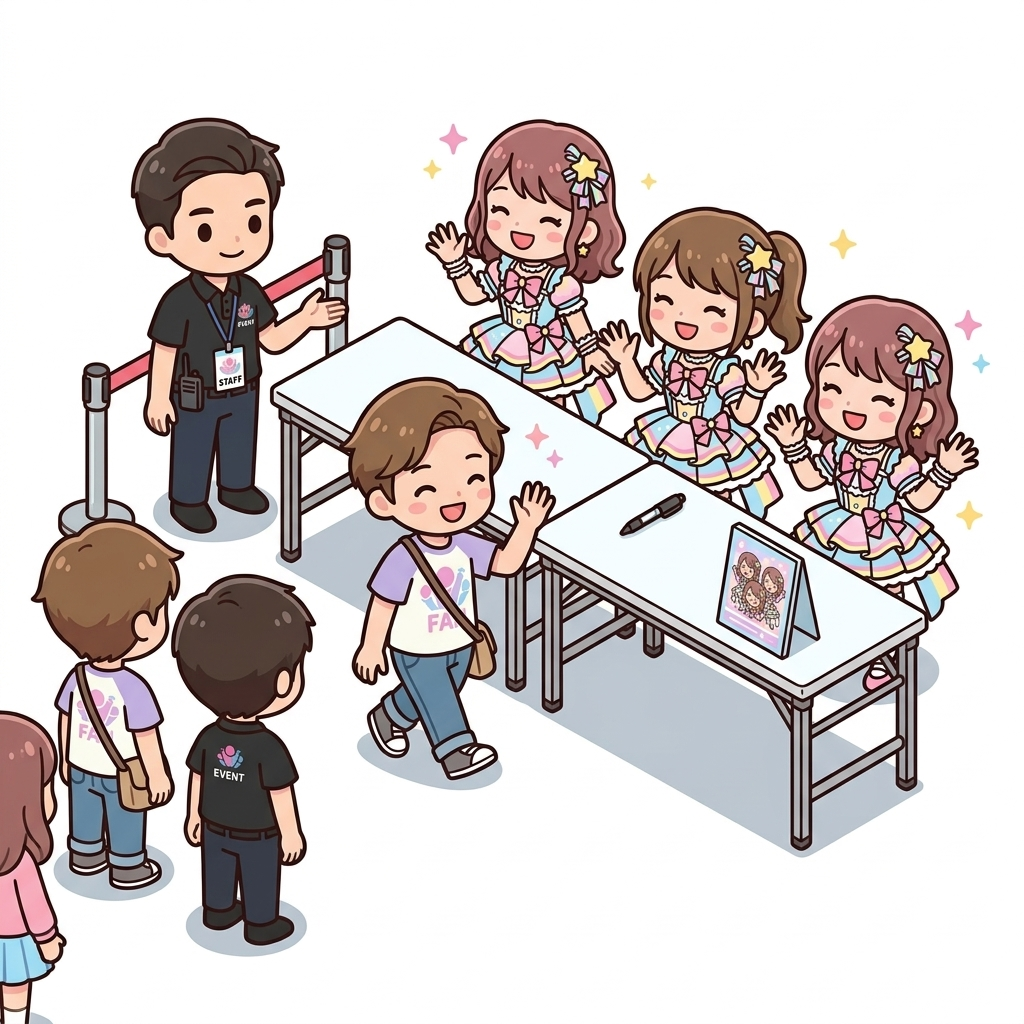
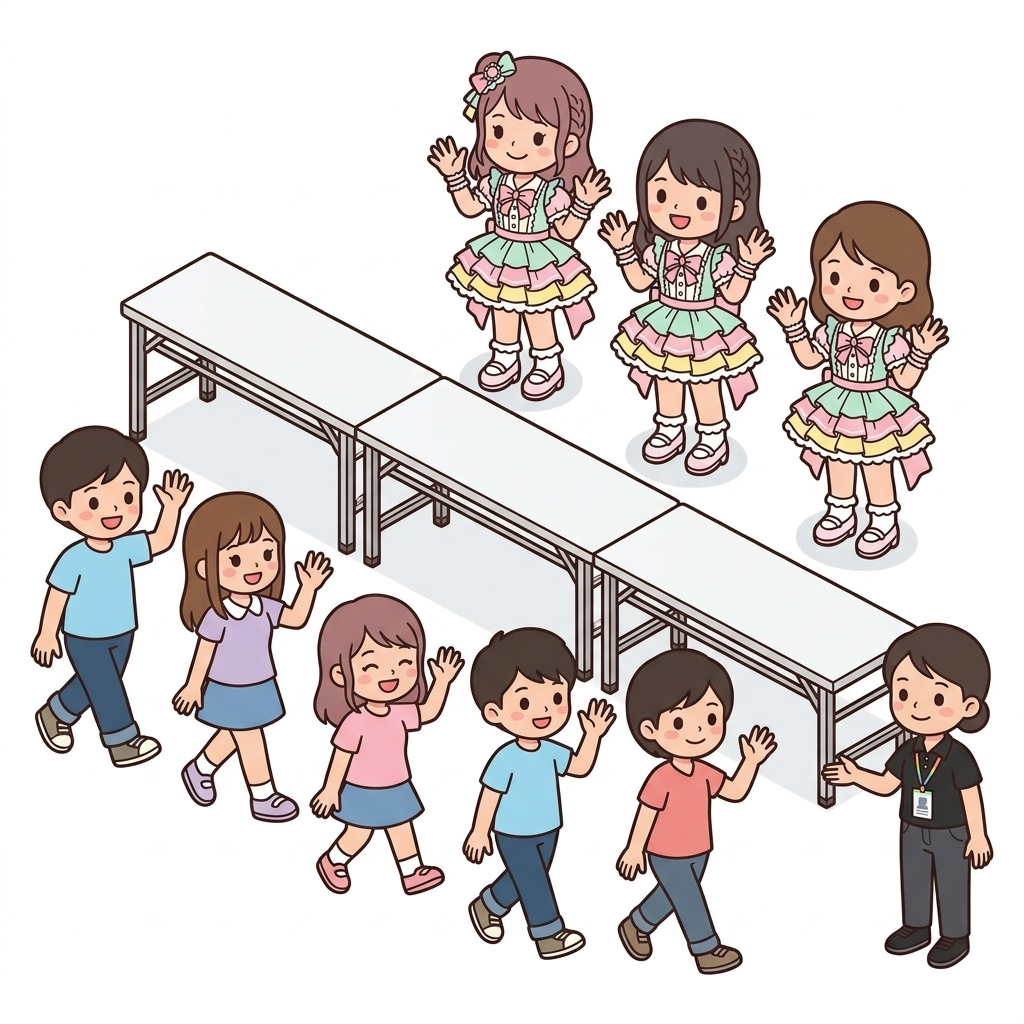
fix: 特典会描写ルール（参加者手ぶら・マイク禁止・アクリル板なし・列参加・長机仕切り）の反映とリファレンス・お見送り会アセット更新

diff --git a/rules/AGENTS.md b/rules/AGENTS.md
@@ -129,16 +129,21 @@
 
 - **特典会イメージ画像（共通アセットと都度生成のスタイル統一原則）**:
   - 特典会の内容を直感的に伝えるため、フライヤーやWEB案内において特典会メニューごとに図解イラスト・アイコンを活用すること。
+  - **特典会現場描写の厳格ルール（リアリティ原則）**:
+    1. **参加者は絶対にマイクを持たない**: マイクを持つのはステージ上のメンバーやMCのみであり、特典会で一般参加者がマイクを持つことは絶対にあり得ない。
+    2. **完全手ぶら原則（荷物・持ち物の持ち込み禁止）**: 特典会（撮影会、お話し会、お見送り会、サイン会等）では、手荷物は事前に荷物置き場（カゴ等）に置くのが通例である。動画撮影（スマホ保持）などの例外を除き、手に物（ペンライト、タオル、バッグ、マイク等）を持つことは一切許可されない。参加者の両手は完全な手ぶら（フリー）として描写すること。
+    3. **お話し会でのアクリル板の撤廃**: 現在の現場においてアクリル板パーテーションが置かれることは基本的にない。長机・テーブルを挟んで直接メンバーと参加者が対面する形で描写すること。
+    4. **お見送り会の列参加と長机による接触防止**: お見送り会（お手振り会）は、参加者が1人ずつ単独で歩くのではなく、複数名が連続した列（キューライン）になって次々と流れていく。また、メンバー側と参加者側の間には長机が物理的な仕切りとして並べられ、直接接触できないように厳格に区切られている。
   - **よくある特典会（共通アセット）**: プラグインに同梱された共通イラスト（`assets/illustrations/`）を標準利用できる。
-    1. **全員お見送り会（お手振り会）**（`tokuten-sendoff.jpg`）: メンバーが横一列に並び、その前を参加者がメンバーと向き合って進んでいく。メンバーと参加者の間に長机が置かれるのが一般的。
-    2. **2ショット撮影会**（`tokuten-2shot.jpg`）: メンバー1人と参加者1名が横に並び、スタッフがその2人を撮影する。（NショットはメンバーN-1人と参加者1名で撮ることを指す）
-    3. **動画撮影付きお見送り会（動画お手振り会）**（`tokuten-video-sendoff.jpg`）: 参加者がスマホで動画を撮影しながら進むことができるお見送り会。
-    4. **個別お話し会**（`tokuten-talk.jpg`）: メンバー1人と参加者が机やパーテーション越しにお話しできる特典会。
-    5. **ユニット集合撮影（グループショット）**（`tokuten-group-shot.jpg`）: メンバー複数人（または全員）と参加者が横に並び、スタッフが撮影する。
-    6. **後ろ向き推し 2shot**（`tokuten-back-oshi-2shot.jpg`）: 2ショットと同じだが、メンバーはカメラに背を向け（後ろ姿やバックポーズを見せ）、参加者は正面を向いてスタッフが撮影する。
-    7. **サイン会**（`tokuten-autograph.jpg`）: 指定されたグッズや色紙などにメンバーがサインする会。メンバーは椅子に座り机の上でサインを書き、参加者はその前に立って様子を見たり話したりする。
+    1. **全員お見送り会（お手振り会）**（`tokuten-sendoff.jpg`）: メンバーが横一列に並び、長机で区切られた前を通路として、手ぶらの参加者が列になって連続して進んでいく。
+    2. **2ショット撮影会**（`tokuten-2shot.jpg`）: メンバー1人と手ぶらの参加者1名が横に並び、スタッフが撮影する。（NショットはメンバーN-1人と参加者1名で撮ることを指す）
+    3. **動画撮影付きお見送り会（動画お手振り会）**（`tokuten-video-sendoff.jpg`）: 長机で区切られた前を、参加者が列になってスマホで動画を撮影しながら進む。
+    4. **個別お話し会**（`tokuten-talk.jpg`）: メンバー1人と参加者が机越しに対面してお話しする（アクリル板なし）。横でスタッフがストップウォッチで計時。
+    5. **ユニット集合撮影（グループショット）**（`tokuten-group-shot.jpg`）: メンバー複数人（または全員）と手ぶらの参加者が横に並び、スタッフが撮影する。
+    6. **後ろ向き推し 2shot**（`tokuten-back-oshi-2shot.jpg`）: 2ショットと同じだが、メンバーはカメラに背を向け（後ろ姿やバックポーズを見せ）、手ぶらの参加者は正面を向いてスタッフが撮影する。
+    7. **サイン会**（`tokuten-autograph.jpg`）: 指定されたグッズや色紙などにメンバーが椅子に座ってサインを書き、参加者は机の前に手ぶらで立って様子を見たり話したりする（マイク不可）。
   - **特殊な特典会の都度作成とリファレンス参照**:
     - 特殊な特典会（例: 私物サイン会、チェキお渡し会、エアハイタッチ、個別動画等）を新たに画像生成する場合は、既存画像との一貫性を担保するため、プラグイン同梱の共通リファレンス画像（`reference-characters.jpg`、`reference-props.jpg`）を必ず参照画像（`ImagePaths`）に指定して生成すること。
-    - **スタイル原則**: クリーンなチビキャラ・フラットベクターイラスト（2.5等身、滑らかな輪郭線、明るくポップな配色、白背景、ステッカー調）。メンバー衣装、ファンの私服、スタッフの黒ポロシャツ・パスのトーン＆マナーを厳格に揃えること。
+    - **スタイル原則**: クリーンなチビキャラ・フラットベクターイラスト（2.5等身、滑らかな輪郭線、明るくポップな配色、白背景、ステッカー調）。メンバー衣装、ファンの私服（手ぶら）、スタッフの黒ポロシャツ・パスのトーン＆マナーを厳格に揃え、否定プロンプト（`NO microphones held by fans, NO penlights, NO bags, empty hands`）を必ず含めること。
 
 

diff --git a/skills/event-tokutenkai/SKILL.md b/skills/event-tokutenkai/SKILL.md
@@ -214,20 +214,25 @@ npx @myriaddreamin/typst-ts-cli compile flyer.typ output.pdf
   - 出演者やメンバーの氏名は、公式プロフィール等に記載された正式表記（姓名フルネーム、正しい漢字・ひらがな表記）を厳密に用います。略称や名字のみ、推測での表記は行いません。
 * **特典会イメージ画像（共通アセット一覧と都度生成のワークフロー）**:
   - 特典会セクションの直感的な理解を促すため、イラスト素材（`assets/illustrations/`）をアイコンや解説図として活用します。
+  - **特典会現場描写の厳格ルール（リアリティ原則）**:
+    1. **参加者は絶対にマイクを持たない**: マイクを持つのはメンバーやMCのみであり、特典会でファンがマイクを持つことは絶対にありません。
+    2. **完全手ぶら原則（荷物・持ち物の持ち込み禁止）**: 特典会では手荷物は事前に荷物置き場（カゴ等）に置くのが通例です。動画撮影（スマホ保持）などの例外を除き、手に物（ペンライト、タオル、バッグ、マイク等）を持つことは一切許可されません。参加者の両手は完全な手ぶら（フリー）として描写します。
+    3. **お話し会でのアクリル板の撤廃**: 現在の現場においてアクリル板パーテーションが置かれることは基本的にありません。長机・テーブルを挟んで直接メンバーと対面する形で描写します。
+    4. **お見送り会の列参加と長机による接触防止**: お見送り会は参加者が列（キューライン）になって次々と連続して進みます。また、メンバーと参加者の間には長机が物理的な仕切りとして並べられ、直接接触できないように厳格に区切られています。
   - **同梱されている共通イラストアセット**:
-    - `reference-characters.jpg`: リファレンス用キャラクターシート（メンバー、ファン、スタッフの正面・背面・表情）
-    - `reference-props.jpg`: リファレンス用備品セット（長机、パイプ椅子、アクリル板、スマホ、カメラ、色紙、チケット）
-    - `tokuten-sendoff.jpg`: 全員お見送り会（お手振り会）
-    - `tokuten-2shot.jpg`: 2ショット撮影会（スタッフ撮影、ピース・ハート等）
-    - `tokuten-video-sendoff.jpg`: 動画撮影付きお見送り会（ファンがスマホ動画撮影しながら進む）
-    - `tokuten-talk.jpg`: 個別お話し会（パーテーション・机越し、ストップウォッチ計測スタッフ）
-    - `tokuten-group-shot.jpg`: ユニット集合撮影 / グループショット（メンバー複数名＋ファン1名）
-    - `tokuten-back-oshi-2shot.jpg`: 後ろ向き推し 2shot（メンバーは後ろ向きで衣装・髪型を見せ、ファンは前向き）
-    - `tokuten-autograph.jpg`: サイン会（メンバー着席・机でサイン、ファン直立対面、スタッフ同席）
+    - `reference-characters.jpg`: リファレンス用キャラクターシート（メンバー、ファン、スタッフの正面・背面・表情。ファンは手ぶら）
+    - `reference-props.jpg`: リファレンス用備品セット（長机、パイプ椅子、荷物置きカゴ、スマホ、カメラ、色紙、チケット）
+    - `tokuten-sendoff.jpg`: 全員お見送り会（お手振り会。長机で区切られ、手ぶらのファンが列になって連続して進む）
+    - `tokuten-2shot.jpg`: 2ショット撮影会（スタッフ撮影、手ぶらポーズ）
+    - `tokuten-video-sendoff.jpg`: 動画撮影付きお見送り会（長机の仕切り、ファンが列になってスマホ動画撮影しながら進む）
+    - `tokuten-talk.jpg`: 個別お話し会（机越し対面・アクリル板なし、ストップウォッチ計測スタッフ）
+    - `tokuten-group-shot.jpg`: ユニット集合撮影 / グループショット（メンバー複数名＋手ぶらファン1名）
+    - `tokuten-back-oshi-2shot.jpg`: 後ろ向き推し 2shot（メンバーは後ろ向きで衣装・髪型を見せ、手ぶらファンは前向き）
+    - `tokuten-autograph.jpg`: サイン会（メンバー着席・机でサイン、ファン直立対面・手ぶら、スタッフ同席）
   - **特殊な特典会の都度生成ガイド（リファレンス参照必須）**:
     - ハイタッチ会、私物サイン、個別動画撮影など特殊な特典会画像を新たに生成する場合は、既存アセットと世界観・スタイルを揃えるため、`reference-characters.jpg` および `reference-props.jpg` を必ず `ImagePaths` に渡して `generate_image` を実行してください。
     - **プロンプト指定の要点**:
-      `Isometric cute flat vector illustration matching the exact art style and character designs in reference images. Clean composition, white background, bright colors, sticker icon clipart style.`
+      `Isometric cute flat vector illustration matching the exact art style and character designs in reference images. Clean composition, white background, bright colors, sticker icon clipart style. Completely EMPTY hands for fans (NO microphones, NO penlights, NO bags).`
 
 
 
